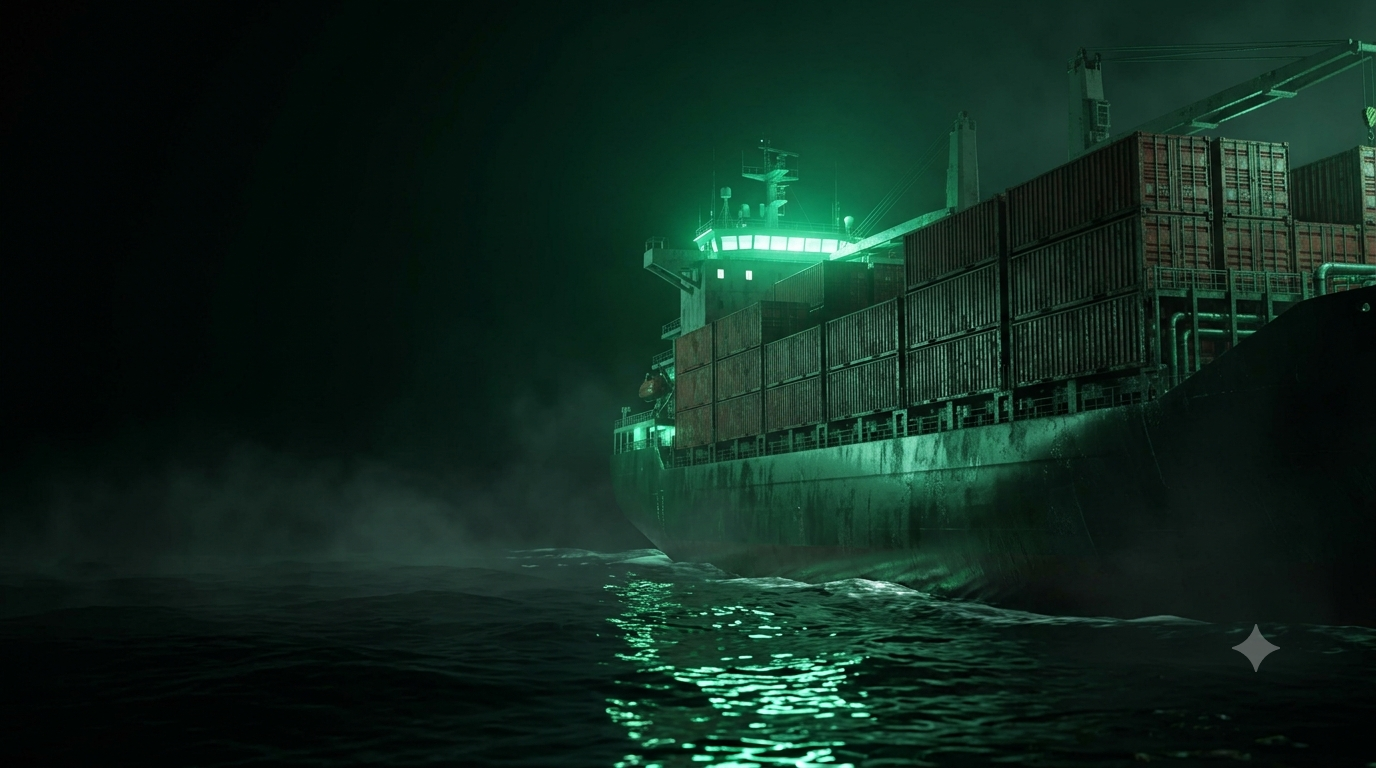
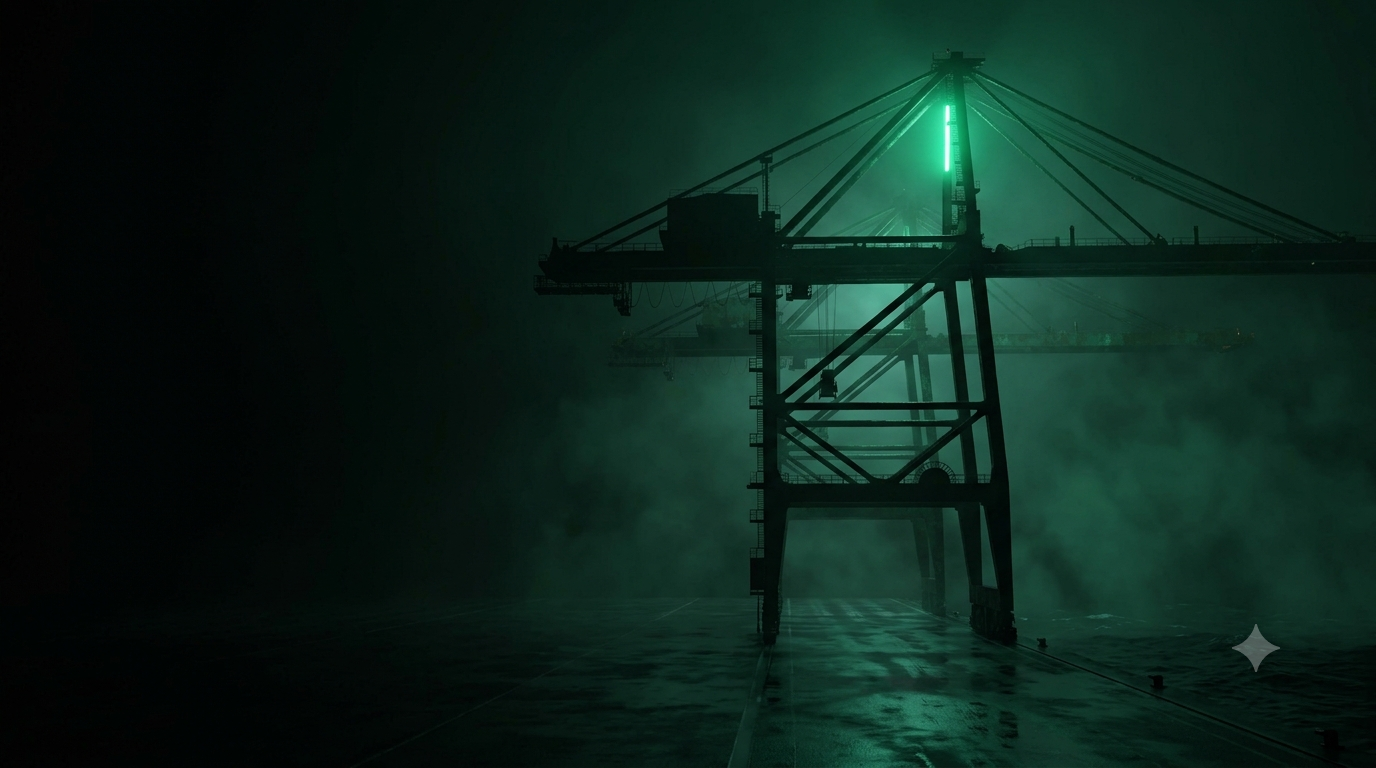
Grade the background images and build Beat 4 on a still
Processes the four generated backgrounds into page-ready assets and rebuilds the
sourcing section around the first of them.

Image pipeline (scripted, repeatable):
- Heals the generator watermark. It sits at a fixed spot — x 1225-1275,
  y 615-675 — always on smooth dark background, so a tone-matched donor patch
  lifted from 130px to the left and feathered in leaves no trace. An earlier
  attempt blurred a whole region and smeared the container edge; this does not.
- Upscales 2x with Lanczos plus a mild unsharp. The source is only 1376px wide,
  which softens badly when stretched across a large monitor.
- Grades every image onto the brand hue, pulling only pixels already near green
  so rust and steel keep their colour, then deepens the shadows. Measured
  highlight hues were 135-160; all four now sit together.
- Ramps the left third darker so white type always has contrast beneath it.
- Exports WebP with a JPG fallback.

Result: 61-129KB per image at 2752x1536, against 9,160KB for the hero video —
and visibly sharper, because nothing is being stretched from a small source.

Beat 4 now uses BackdropImage, a reusable full-bleed still that scales slowly
across the section. Slow drift on a photograph reads as motion, which is how
these pages get a filmic feel without paying video weight for every section.
Lazy-loaded, and static under prefers-reduced-motion.

Also swaps the crane and ship filenames, which were attached to the wrong
images.
[…]

diff --git a/src/beats/Beat4Pipeline.tsx b/src/beats/Beat4Pipeline.tsx
@@ -1,40 +1,113 @@
 /* ===========================================================================
    BEAT 4 — THE SOURCING PIPELINE
 
-   TODO (motion): pin the section and move horizontally through the four stages
-   as the visitor scrolls vertically, with the connecting line drawing itself
-   between nodes. The shipping mark stamps in at the final stage.
-   Reduced motion / mobile: stack the stages vertically, no horizontal scroll,
-   no pinning.
+   First section built on a still rather than video. The container photograph
+   fills the section and drifts slowly as you scroll; the copy sits in the dark
+   left third, which the image was composed and graded to keep clear.
+
+   Weight: ~106KB for the image, against 9MB for the hero video. That gap is the
+   argument for using stills everywhere except the hero.
+
+   TODO (motion): stagger the four stage cards in as the section enters, and
+   stamp the shipping mark in last.
    =========================================================================== */
 
-import { Section } from "@/components/Section";
+import { useEffect, useRef } from "react";
+import gsap from "gsap";
+import { ScrollTrigger } from "gsap/ScrollTrigger";
+
 import { copy } from "@/content/copy";
+import { BackdropImage } from "@/components/BackdropImage";
+import { useReducedMotion } from "@/lib/useReducedMotion";
+
+gsap.registerPlugin(ScrollTrigger);
 
 export function Beat4Pipeline() {
+  const reducedMotion = useReducedMotion();
+  const root = useRef<HTMLElement>(null);
+
+  useEffect(() => {
+    if (reducedMotion || !root.current) return;
+
+    const context = gsap.context(() => {
+      gsap.fromTo(
+        "[data-reveal]",
+        { autoAlpha: 0, y: 26 },
+        {
+          autoAlpha: 1,
+          y: 0,
+          duration: 0.8,
+          ease: "power3.out",
+          stagger: 0.08,
+          scrollTrigger: { trigger: root.current, start: "top 65%" },
+        },
+      );
+    }, root);
+
+    return () => context.revert();
+  }, [reducedMotion]);
+
   return (
-    <Section id="the-pipeline" heading={copy.pipeline.heading}>
-      <p className="mt-6 max-w-2xl text-lg text-body">{copy.pipeline.body}</p>
+    <section
+      ref={root}
+      id="the-pipeline"
+      aria-labelledby="pipeline-heading"
+      className="relative isolate flex min-h-screen items-center overflow-hidden py-28"
+    >
+      <BackdropImage name="bg-container-hanging" scale={1.14} />
 
-      <ol className="mt-12 grid gap-6 md:grid-cols-4">
-        {copy.pipeline.stages.map((stage, index) => (
-          <li
-            key={stage.key}
-            className="rounded-card border border-line bg-surface p-6 shadow-card"
+      <div className="mx-auto w-full max-w-6xl px-5 sm:px-8">
+        <div className="max-w-xl">
+          <p
+            data-reveal
+            className="text-xs font-semibold tracking-[0.22em] text-accent uppercase"
           >
-            <span className="text-xs font-semibold text-accent tabular-nums">
-              {String(index + 1).padStart(2, "0")}
-            </span>
-            <h3 className="mt-2 text-lg font-semibold">{stage.label}</h3>
-            <p className="mt-2 text-sm text-muted">{stage.detail}</p>
-          </li>
-        ))}
-      </ol>
+            The sourcing pipeline
+          </p>
 
-      <p className="mt-8 inline-flex items-center gap-2 rounded-pill border border-line px-4 py-2 text-sm text-muted">
-        Shipping mark generated automatically
-        <span className="font-mono font-semibold text-ink">{copy.pipeline.sampleMark}</span>
-      </p>
-    </Section>
+          <h2
+            data-reveal
+            id="pipeline-heading"
+            className="text-on-video mt-5 text-3xl leading-[1.08] font-semibold tracking-tight sm:text-4xl md:text-5xl"
+          >
+            {copy.pipeline.heading}
+          </h2>
+
+          <p data-reveal className="text-on-video mt-6 text-base leading-relaxed opacity-85 md:text-lg">
+            {copy.pipeline.body}
+          </p>
+        </div>
+
+        <ol className="mt-14 grid gap-4 sm:grid-cols-2 lg:grid-cols-4">
+          {copy.pipeline.stages.map((stage, index) => (
+            <li
+              key={stage.key}
+              data-reveal
+              className="rounded-card border border-white/10 bg-white/[0.04] p-5 backdrop-blur-sm"
+            >
+              <span className="text-xs font-semibold text-accent tabular-nums">
+                {String(index + 1).padStart(2, "0")}
+              </span>
+              <h3 className="text-on-video mt-2 text-base font-semibold">
+                {stage.label}
+              </h3>
+              <p className="text-on-video mt-1.5 text-sm opacity-70">
+                {stage.detail}
+              </p>
+            </li>
+          ))}
+        </ol>
+
+        <p
+          data-reveal
+          className="text-on-video mt-10 inline-flex items-center gap-3 rounded-pill border border-white/20 px-5 py-2.5 text-sm opacity-85"
+        >
+          Shipping mark generated automatically
+          <span className="font-mono font-semibold text-accent">
+            {copy.pipeline.sampleMark}
+          </span>
+        </p>
+      </div>
+    </section>
   );
 }

diff --git a/src/components/BackdropImage.tsx b/src/components/BackdropImage.tsx
@@ -1,0 +1,99 @@
+/* ===========================================================================
+   BACKDROP IMAGE
+
+   A full-bleed still that slowly scales as the section passes through the
+   viewport. That slow drift is the whole trick behind pages that feel like
+   film but are actually built from a handful of photographs — the eye reads
+   gradual movement as motion, so a single image does the work of a video at a
+   fraction of the weight. These are ~100KB each; the hero video is 9MB.
+
+   Ships WebP with a JPG fallback, and lazy-loads: the browser only fetches the
+   image when the section is near the viewport.
+
+   Under prefers-reduced-motion the image simply sits still.
+   =========================================================================== */
+
+import { useEffect, useRef } from "react";
+import gsap from "gsap";
+import { ScrollTrigger } from "gsap/ScrollTrigger";
+
+import { useReducedMotion } from "@/lib/useReducedMotion";
+import { cn } from "@/lib/cn";
+
+gsap.registerPlugin(ScrollTrigger);
+
+type BackdropImageProps = {
+  /** Basename in /media, without extension — e.g. "bg-container-hanging". */
+  name: string;
+  /** Empty string: these are decorative, the copy carries the meaning. */
+  alt?: string;
+  /** How far it drifts across the section. 1.12 = 12% zoom, subtle on purpose. */
+  scale?: number;
+  className?: string;
+};
+
+export function BackdropImage({
+  name,
+  alt = "",
+  scale = 1.12,
+  className,
+}: BackdropImageProps) {
+  const reducedMotion = useReducedMotion();
+  const wrap = useRef<HTMLDivElement>(null);
+  const image = useRef<HTMLImageElement>(null);
+
+  useEffect(() => {
+    if (reducedMotion || !wrap.current || !image.current) return;
+
+    const context = gsap.context(() => {
+      gsap.fromTo(
+        image.current,
+        { scale: 1, yPercent: -2 },
+        {
+          scale,
+          yPercent: 2,
+          ease: "none",
+          scrollTrigger: {
+            trigger: wrap.current,
+            start: "top bottom",
+            end: "bottom top",
+            scrub: 1,
+          },
+        },
+      );
+    }, wrap);
+
+    return () => context.revert();
+  }, [reducedMotion, scale]);
+
+  return (
+    <div
+      ref={wrap}
+      aria-hidden={alt === "" ? true : undefined}
+      className={cn("absolute inset-0 -z-10 overflow-hidden bg-[var(--neutral-950)]", className)}
+    >
+      <picture>
+        <source srcSet={`/media/${name}.webp`} type="image/webp" />
+        <img
+          ref={image}
+          src={`/media/${name}.jpg`}
+          alt={alt}
+          loading="lazy"
+          decoding="async"
+          width={2752}
+          height={1536}
+          className="h-full w-full object-cover will-change-transform"
+        />
+      </picture>
+
+      {/* Scrims. The left-heavy one guarantees contrast under the copy column;
+          the vertical one melts the top and bottom edges into the page so the
+          image reads as part of the page rather than a rectangle dropped on it. */}
+      <div className="absolute inset-0 bg-gradient-to-r from-[var(--neutral-950)] via-[var(--neutral-950)]/70 to-transparent" />
+      <div className="absolute inset-0 bg-gradient-to-b from-[var(--neutral-950)] via-transparent to-[var(--neutral-950)]" />
+
+      {/* Same grain as the hero, so stills and footage share a surface. */}
+      <div className="film-grain absolute inset-0" />
+    </div>
+  );
+}

diff --git a/CLAUDE.md b/CLAUDE.md
@@ -53,6 +53,9 @@ Framer Motion · lucide-react
   focus states, keyboard-reachable CTAs.
 - **Performance.** Compress images before committing. Keep the hero LCP fast;
   lazy-load anything below the fold.
+- **Backgrounds: prefer stills over video.** The graded images in
+  `public/media/bg-*.webp` are ~60–130KB each against 9MB for the hero video,
+  and they are sharper. Video is for the hero only.
 - Each beat is one file in `src/beats/` with a header comment describing what it
   does, what the motion should be, and where real assets get swapped in.
 
@@ -83,7 +86,9 @@ pnpm preview     # serve the production build locally
 lines. The eyebrow and headline are present on arrival; the subhead and CTAs
 arrive on scroll. A fixed transparent header (placeholder logo — see
 `src/brand/LogoMark.tsx`) spans the whole page, and a scroll cue sits over the
-hero. Beats 1–8 are still static, responsive sections with real
+hero. **Beat 4 is built** on a still image with a slow scroll drift — see
+`src/components/BackdropImage.tsx`, the pattern to reuse for the other
+image-backed sections. Beats 1–3 and 5–8 are still static sections with real
 copy. Motion is added one beat at a time, reviewed in the browser after each,
 per the `TODO (motion)` comment at the top of each beat file.
 
